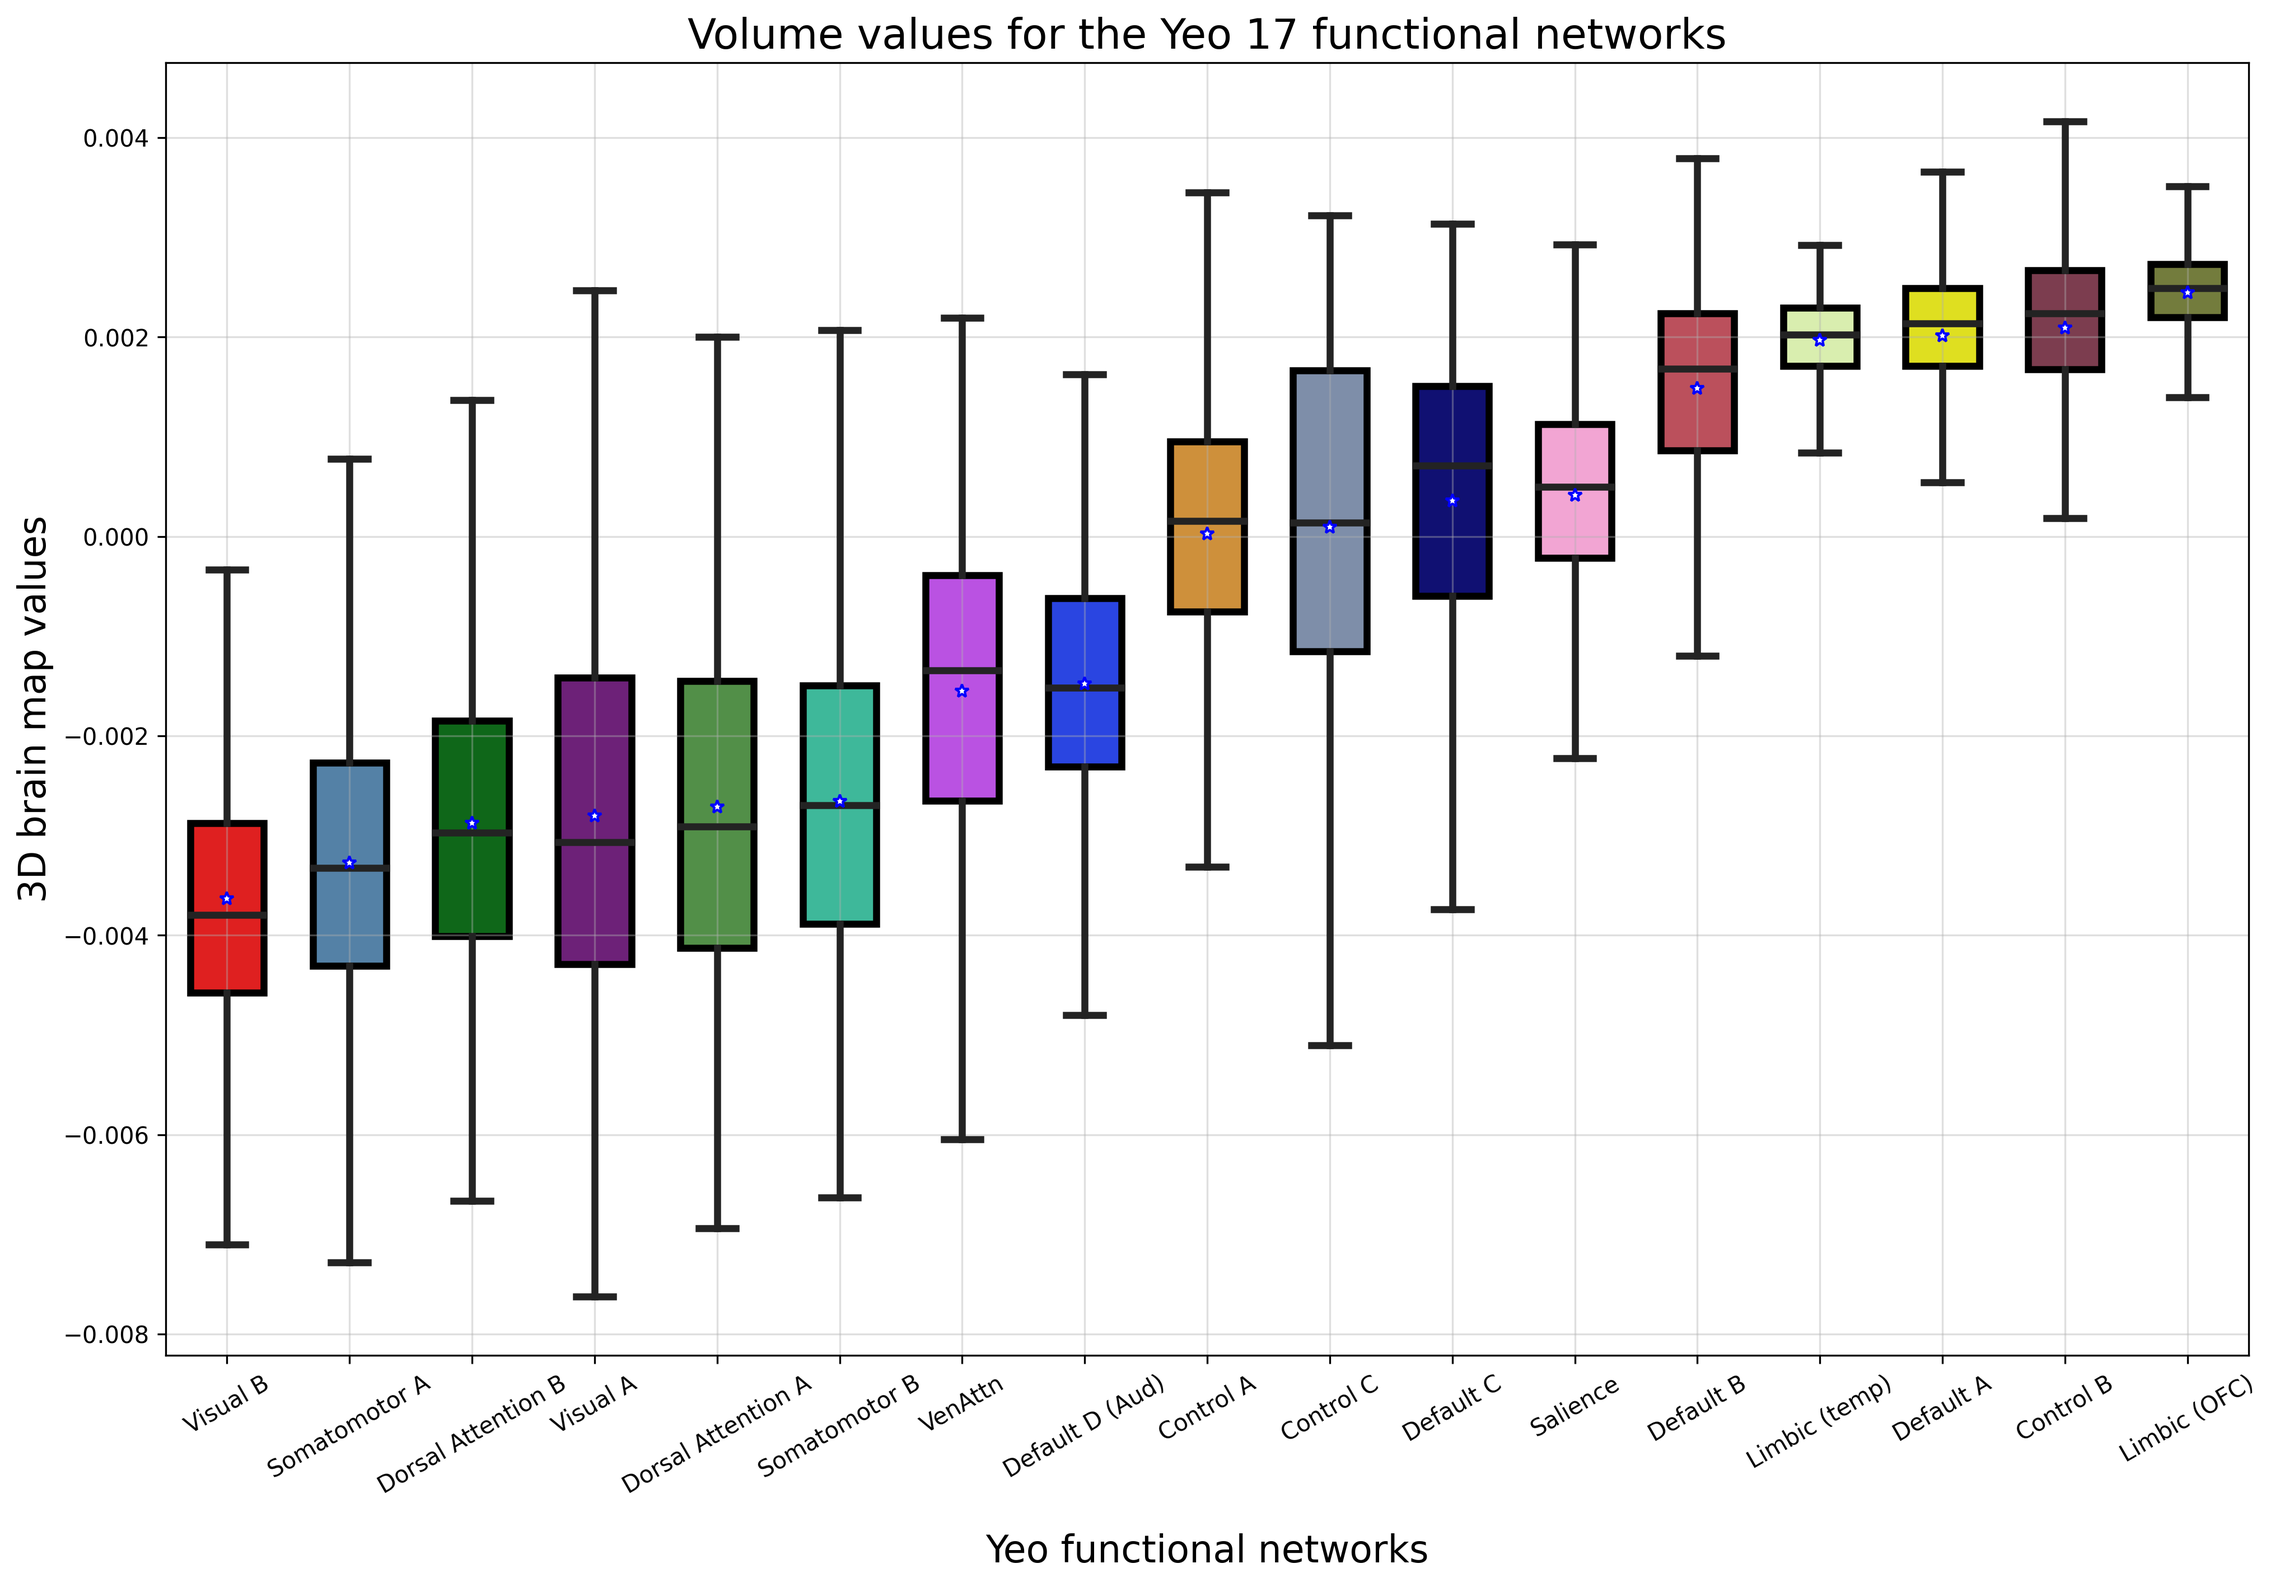
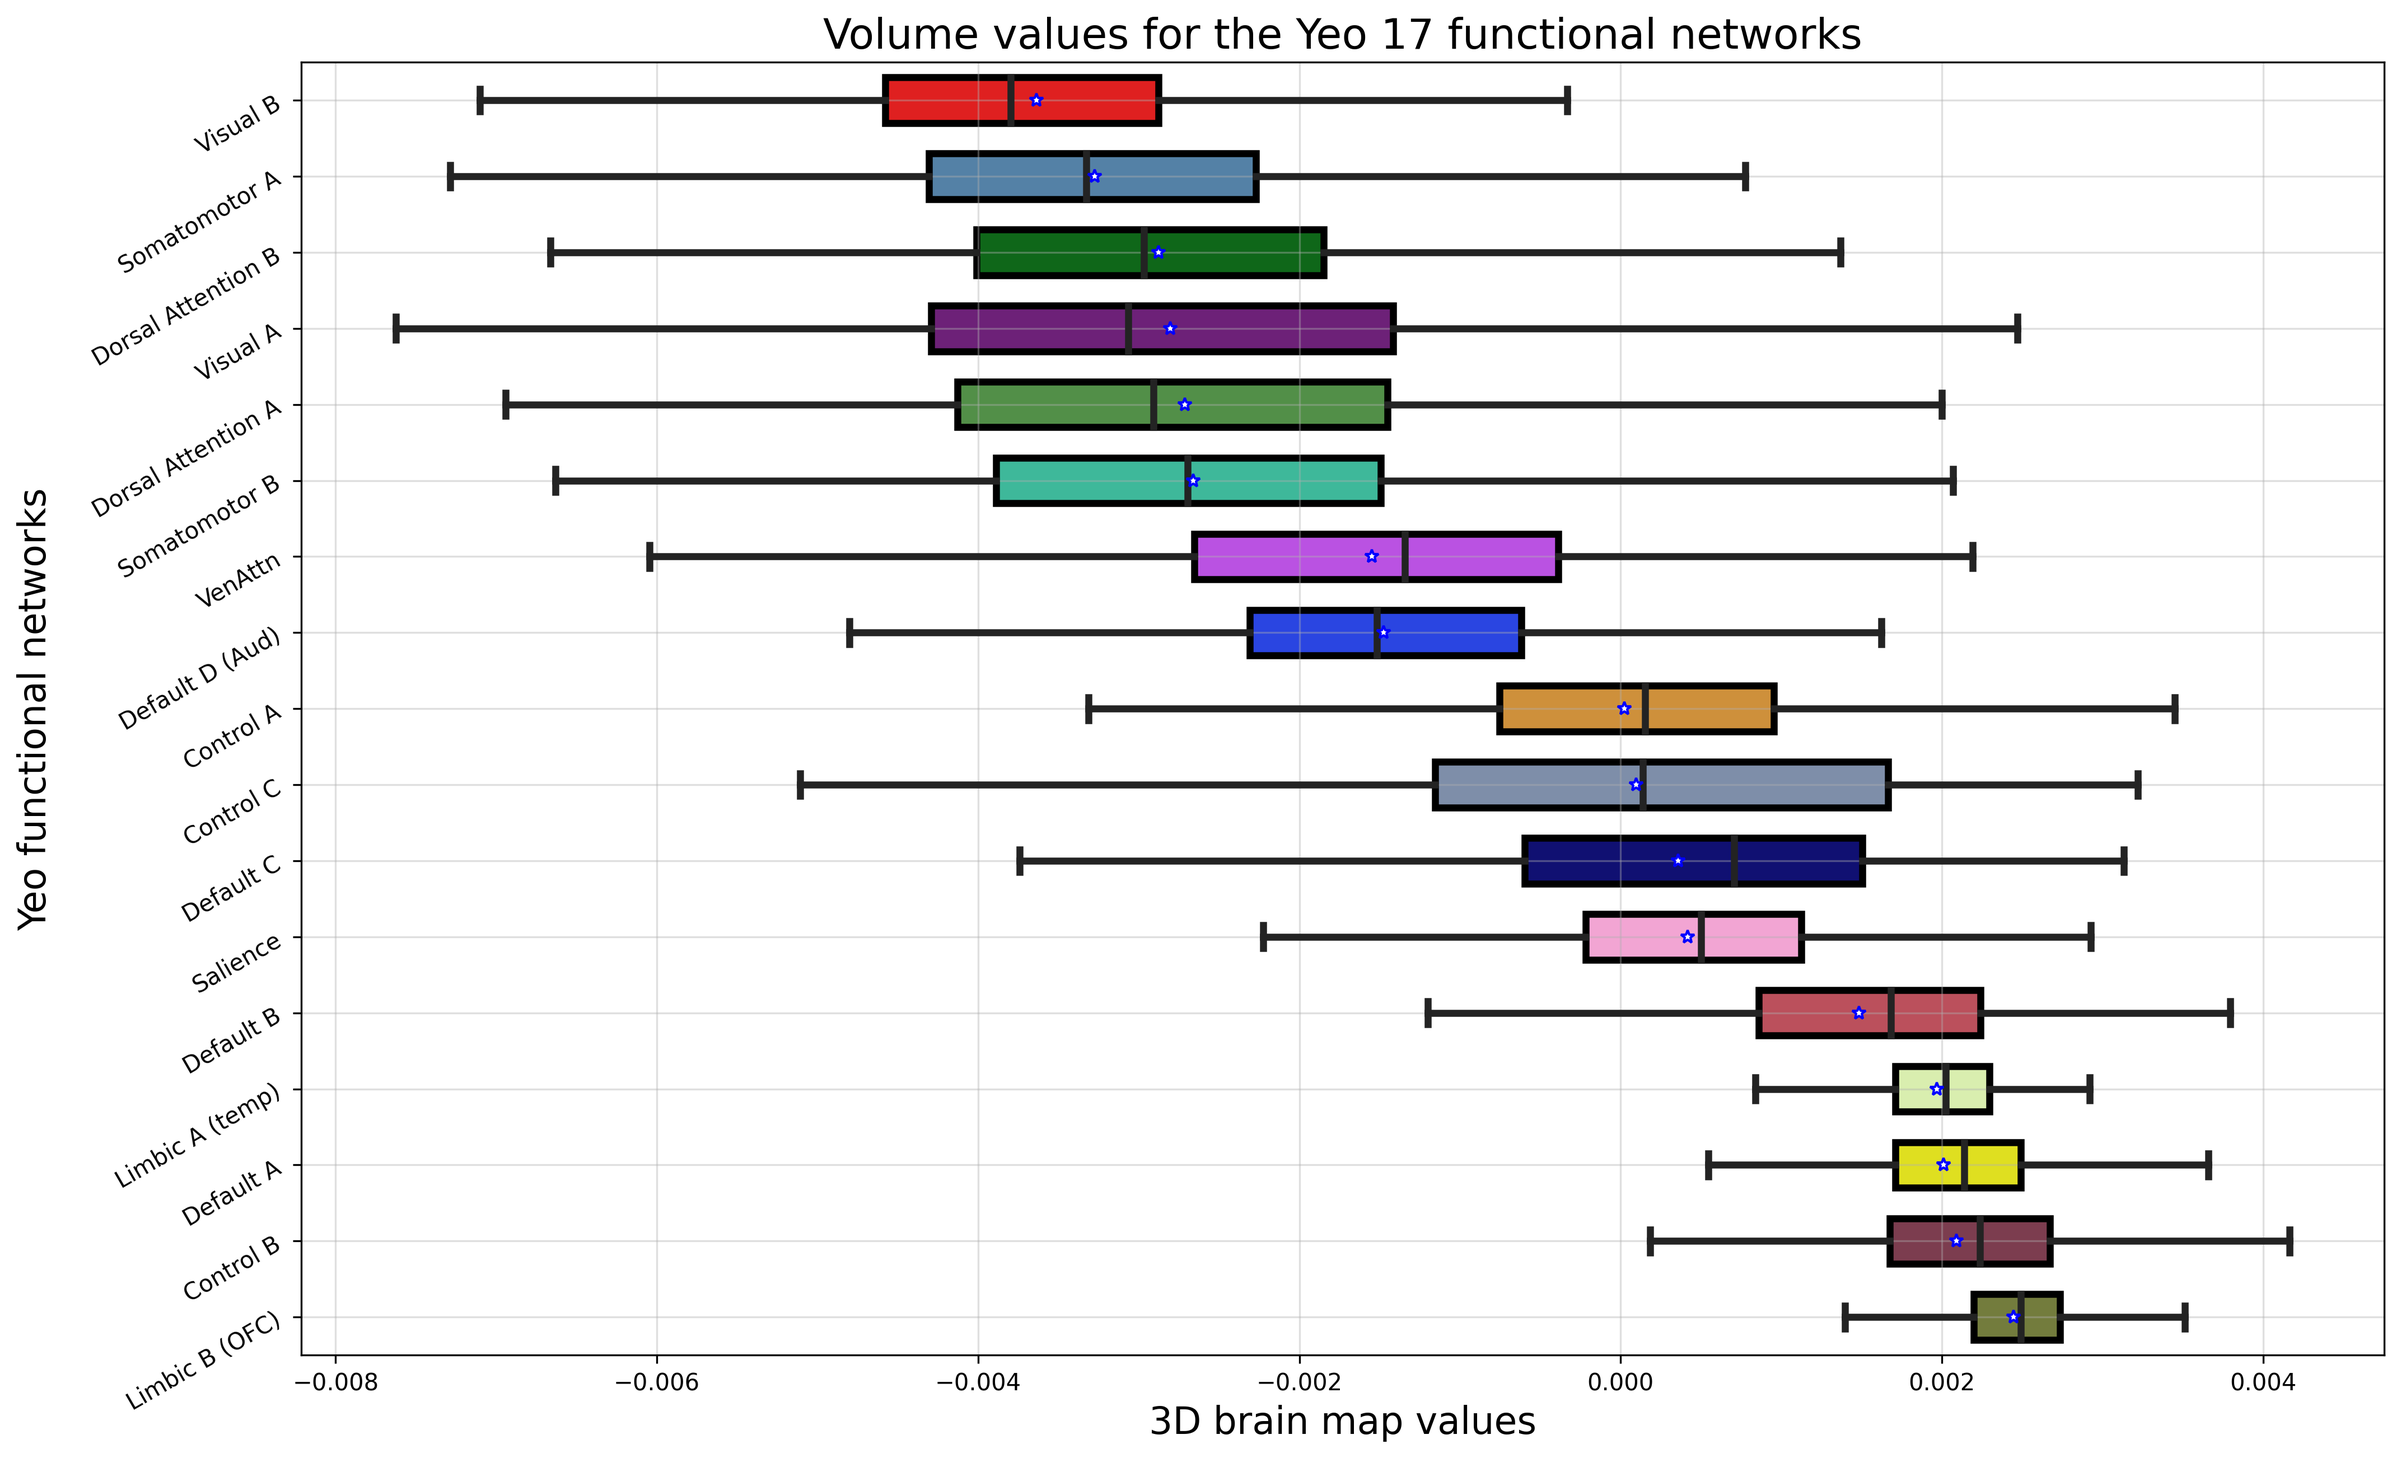
Updated code

Changed region(s): [[0.0, 0.0, 1.0, 0.995], [0.062, 0.9328, 0.093, 0.9639], [0.031, 0.2177, 0.062, 0.2488]]

diff --git a/2.extract_Yeo_values.py b/2.extract_Yeo_values.py
@@ -113,7 +113,7 @@ sns.set_palette(colors_list)
 
 # The boxplots
 fig, axes = plt.subplots(1,1,figsize=(12,10))
-ax = sns.boxplot(data=results_7_nets_ordered, linewidth=3,showmeans=True,
+ax = sns.boxplot(data=results_7_nets_ordered, linewidth=3,showmeans=True, orient='h',
 				meanprops={"marker":"*","markerfacecolor":"white", "markeredgecolor":"blue"}, width=0.6, showfliers = show_outliers)
 # Select which box you want to change    
 #mybox = ax.artists[-1]
@@ -122,9 +122,9 @@ ax = sns.boxplot(data=results_7_nets_ordered, linewidth=3,showmeans=True,
 for b in range(len(ax.artists)):
 	ax.artists[b].set_edgecolor('black')
 #axes.set_ylim([-2,2])
-axes.set_xticklabels(names_7_nets_ordered)
-axes.set_ylabel("3D brain map values", size= 16)
-axes.set_xlabel("Yeo functional networks", labelpad=15, size= 16)
+axes.set_yticklabels(names_7_nets_ordered)
+axes.set_xlabel("3D brain map values", size= 16)
+axes.set_ylabel("Yeo functional networks", labelpad=15, size= 16)
 plt.title("Volume values for the Yeo 7 functional networks", size= 18)
 plt.xticks(fontsize= 10) 
 plt.yticks(fontsize= 10) 
@@ -195,7 +195,7 @@ sns.set_palette(colors_list)
 
 # The boxplots
 fig, axes = plt.subplots(1,1,figsize=(16,10))
-ax = sns.boxplot(data=results_17_nets_ordered, linewidth=3, showmeans=True,
+ax = sns.boxplot(data=results_17_nets_ordered, linewidth=3, showmeans=True, orient='h',
 				meanprops={"marker":"*","markerfacecolor":"white", "markeredgecolor":"blue"}, width=0.6, showfliers = show_outliers)
 # Select which box you want to change    
 #mybox = ax.artists[-1]
@@ -204,9 +204,9 @@ ax = sns.boxplot(data=results_17_nets_ordered, linewidth=3, showmeans=True,
 #*set edge color = black
 for b in range(len(ax.artists)):
 	ax.artists[b].set_edgecolor('black')
-axes.set_xticklabels(names_17_nets_ordered, rotation=30)
-axes.set_ylabel("3D brain map values", size= 16)
-axes.set_xlabel("Yeo functional networks", labelpad=15, size= 16)
+axes.set_yticklabels(names_17_nets_ordered, rotation=30)
+axes.set_xlabel("3D brain map values", size= 16)
+axes.set_ylabel("Yeo functional networks", labelpad=15, size= 16)
 plt.xticks(fontsize= 10) 
 plt.yticks(fontsize= 10) 
 plt.title("Volume values for the Yeo 17 functional networks", size= 18)
